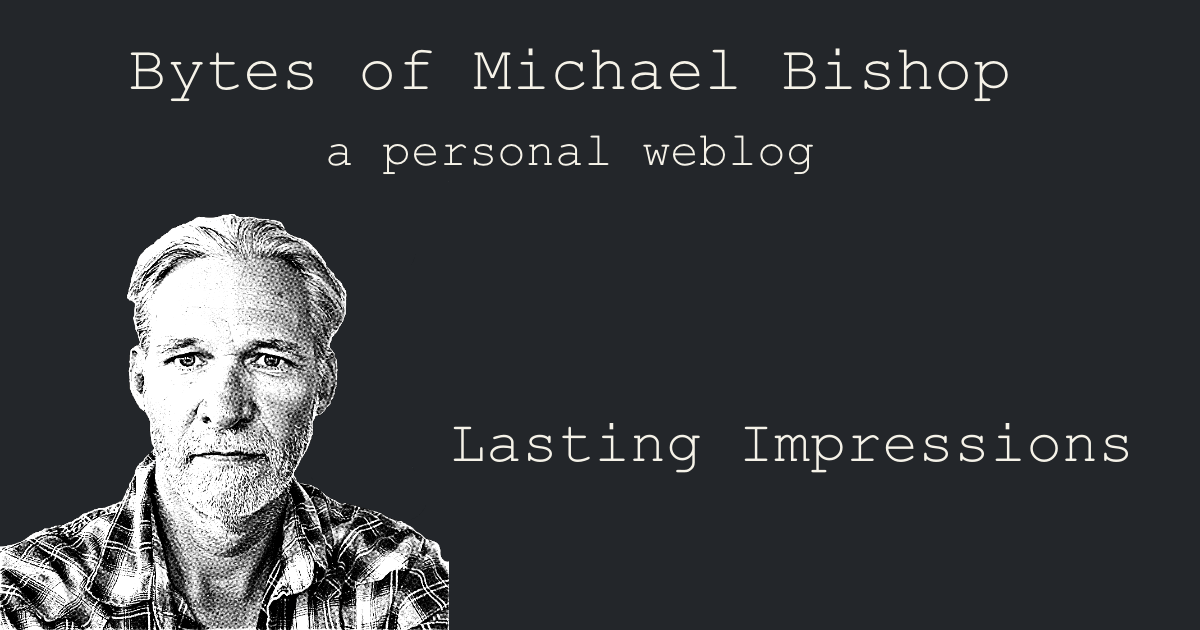
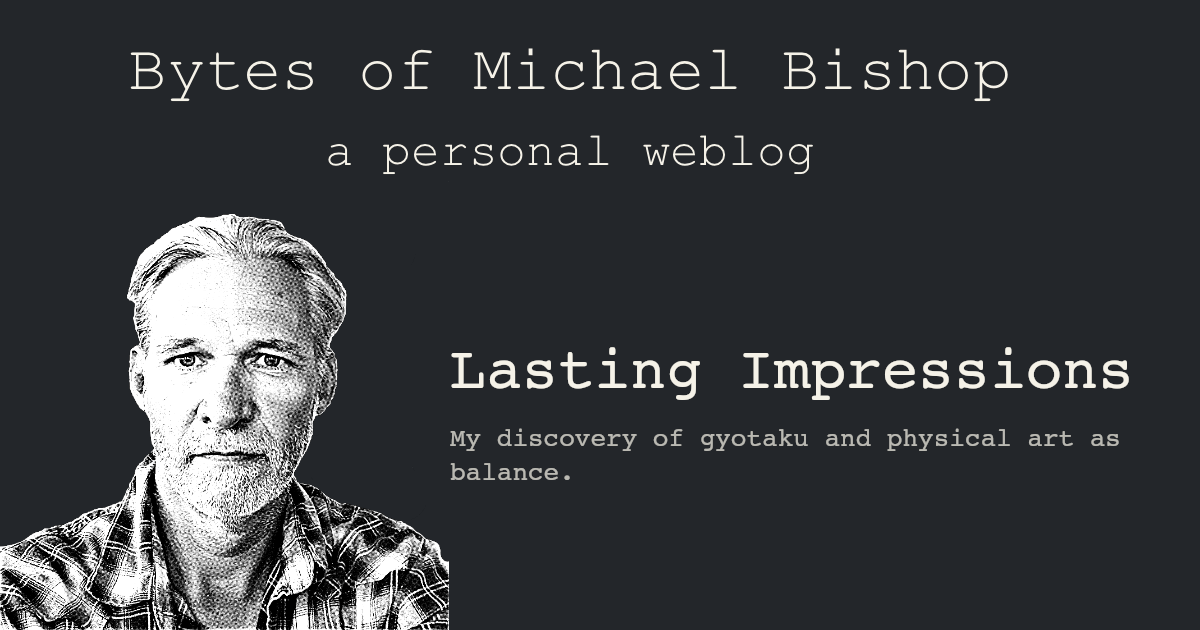
OG cards: draw the excerpt, and regenerate when a post changes
The card showed only the title, so a shared link gave no sense of what the
piece was about even when the post had an excerpt sitting right there.

- Title and excerpt are laid out as one bottom-anchored block: the excerpt is
  measured in its own font first, then the title rises to make room, so a
  three-line title plus a two-line excerpt still clears the masthead. Excerpt
  falls back to meta.desc, caps at three lines, and ellipsizes.
- The script skipped any article whose card already existed, so editing a
  title never refreshed it. Now it compares mtimes and rebuilds a card older
  than its post; --force rebuilds everything. All 12 existing cards were
  stale and were regenerated.
- Exits non-zero on failure. It runs as the first half of `npm run build`,
  where a logged-but-swallowed error would let the build carry on.

Changed region(s): [[0.37, 0.6635, 0.9558, 0.7841], [0.6167, 0.5429, 0.9558, 0.6333], [0.37, 0.5429, 0.5858, 0.6333]]

diff --git a/scripts/generate-og-images.js b/scripts/generate-og-images.js
@@ -7,7 +7,7 @@
  */
 
 import { createCanvas, loadImage } from '@napi-rs/canvas';
-import { readdir, readFile, writeFile, mkdir } from 'fs/promises';
+import { readdir, readFile, writeFile, mkdir, stat } from 'fs/promises';
 import { existsSync } from 'fs';
 import { join, basename } from 'path';
 import matter from 'gray-matter';
@@ -28,6 +28,13 @@ const CONFIG = {
         veryLong: 38    // > 50 chars
     },
     fontFamily: 'Courier New, Courier, monospace',
+
+    // Excerpt, drawn under the title
+    excerptColor: 'rgba(245, 242, 232, 0.72)',
+    excerptFontSize: 26,
+    excerptLineHeight: 34,
+    excerptGap: 24,
+    excerptMaxLines: 3,
     
     // Text position (from left edge, from bottom)
     textX: 450,
@@ -80,7 +87,7 @@ function wrapText(ctx, text, maxWidth) {
 /**
  * Generate OG image for a single article
  */
-async function generateOgImage(title, outputPath, baseImageBuffer) {
+async function generateOgImage(title, excerpt, outputPath, baseImageBuffer) {
     // Load base image
     const baseImage = await loadImage(baseImageBuffer);
     
@@ -102,18 +109,43 @@ async function generateOgImage(title, outputPath, baseImageBuffer) {
     
     // Wrap text if needed
     const lines = wrapText(ctx, title, CONFIG.maxTextWidth);
-    
-    // Calculate starting Y position (from bottom, accounting for multiple lines)
-    let textY = baseImage.height - CONFIG.textFromBottom;
-    
-    // If multiple lines, adjust starting position so text ends at the right spot
-    if (lines.length > 1) {
-        textY = baseImage.height - CONFIG.textFromBottom - (lines.length - 1) * lineHeight;
+
+    // Measure the excerpt in its own font before laying anything out, so the
+    // title and excerpt can be bottom-anchored as one block.
+    let excerptLines = [];
+    if (excerpt) {
+        ctx.font = `${CONFIG.excerptFontSize}px "${CONFIG.fontFamily}"`;
+        excerptLines = wrapText(ctx, excerpt, CONFIG.maxTextWidth);
+        if (excerptLines.length > CONFIG.excerptMaxLines) {
+            excerptLines = excerptLines.slice(0, CONFIG.excerptMaxLines);
+            excerptLines[excerptLines.length - 1] =
+                excerptLines[excerptLines.length - 1].replace(/[\s.,;:]+$/, '') + '…';
+        }
+        ctx.font = `${fontSize}px "${CONFIG.fontFamily}"`;
     }
-    
-    // Draw each line
+
+    const excerptBlock = excerptLines.length
+        ? CONFIG.excerptGap + excerptLines.length * CONFIG.excerptLineHeight
+        : 0;
+
+    // Bottom-anchor the whole block: the last line sits textFromBottom up
+    // from the bottom edge, and the title rises to make room for the excerpt.
+    const blockBottom = baseImage.height - CONFIG.textFromBottom;
+    let textY = blockBottom - excerptBlock - (lines.length - 1) * lineHeight;
+
+    // Draw the title
     for (let i = 0; i < lines.length; i++) {
         ctx.fillText(lines[i], CONFIG.textX, textY + (i * lineHeight));
+    }
+
+    // Draw the excerpt
+    if (excerptLines.length) {
+        ctx.fillStyle = CONFIG.excerptColor;
+        ctx.font = `${CONFIG.excerptFontSize}px "${CONFIG.fontFamily}"`;
+        const excerptTop = textY + (lines.length - 1) * lineHeight + CONFIG.excerptGap;
+        for (let i = 0; i < excerptLines.length; i++) {
+            ctx.fillText(excerptLines[i], CONFIG.textX, excerptTop + ((i + 1) * CONFIG.excerptLineHeight));
+        }
     }
     
     // Save image
@@ -136,6 +168,8 @@ function slugify(text) {
 /**
  * Main function
  */
+const force = process.argv.includes('--force');
+
 async function main() {
     console.log('🖼  Generating OG images for articles...\n');
     
@@ -184,15 +218,20 @@ async function main() {
         const outputFilename = `og-${slug}.png`;
         const outputPath = join(CONFIG.outputDir, outputFilename);
         
-        // Skip if already generated (for faster rebuilds)
-        if (existsSync(outputPath)) {
-            console.log(`⏭ Already exists: ${outputFilename}`);
-            skipped++;
-            continue;
+        // Regenerate when the post is newer than its card, so editing a
+        // title or excerpt refreshes it. --force rebuilds everything.
+        if (!force && existsSync(outputPath)) {
+            const [post, card] = await Promise.all([stat(filePath), stat(outputPath)]);
+            if (card.mtimeMs >= post.mtimeMs) {
+                console.log(`⏭ Up to date: ${outputFilename}`);
+                skipped++;
+                continue;
+            }
         }
-        
+
         try {
-            await generateOgImage(frontmatter.title, outputPath, baseImageBuffer);
+            const excerpt = frontmatter.excerpt || frontmatter.meta?.desc || '';
+            await generateOgImage(frontmatter.title, excerpt, outputPath, baseImageBuffer);
             generated++;
         } catch (error) {
             console.error(`❌ Error generating ${file}:`, error.message);
@@ -202,4 +241,9 @@ async function main() {
     console.log(`\n✅ Done! Generated: ${generated}, Skipped: ${skipped}`);
 }
 
-main().catch(console.error);
+main().catch(err => {
+    // Exit non-zero: this runs as the first half of `npm run build`, and a
+    // logged-but-swallowed error would let a broken build continue.
+    console.error(err);
+    process.exit(1);
+});
